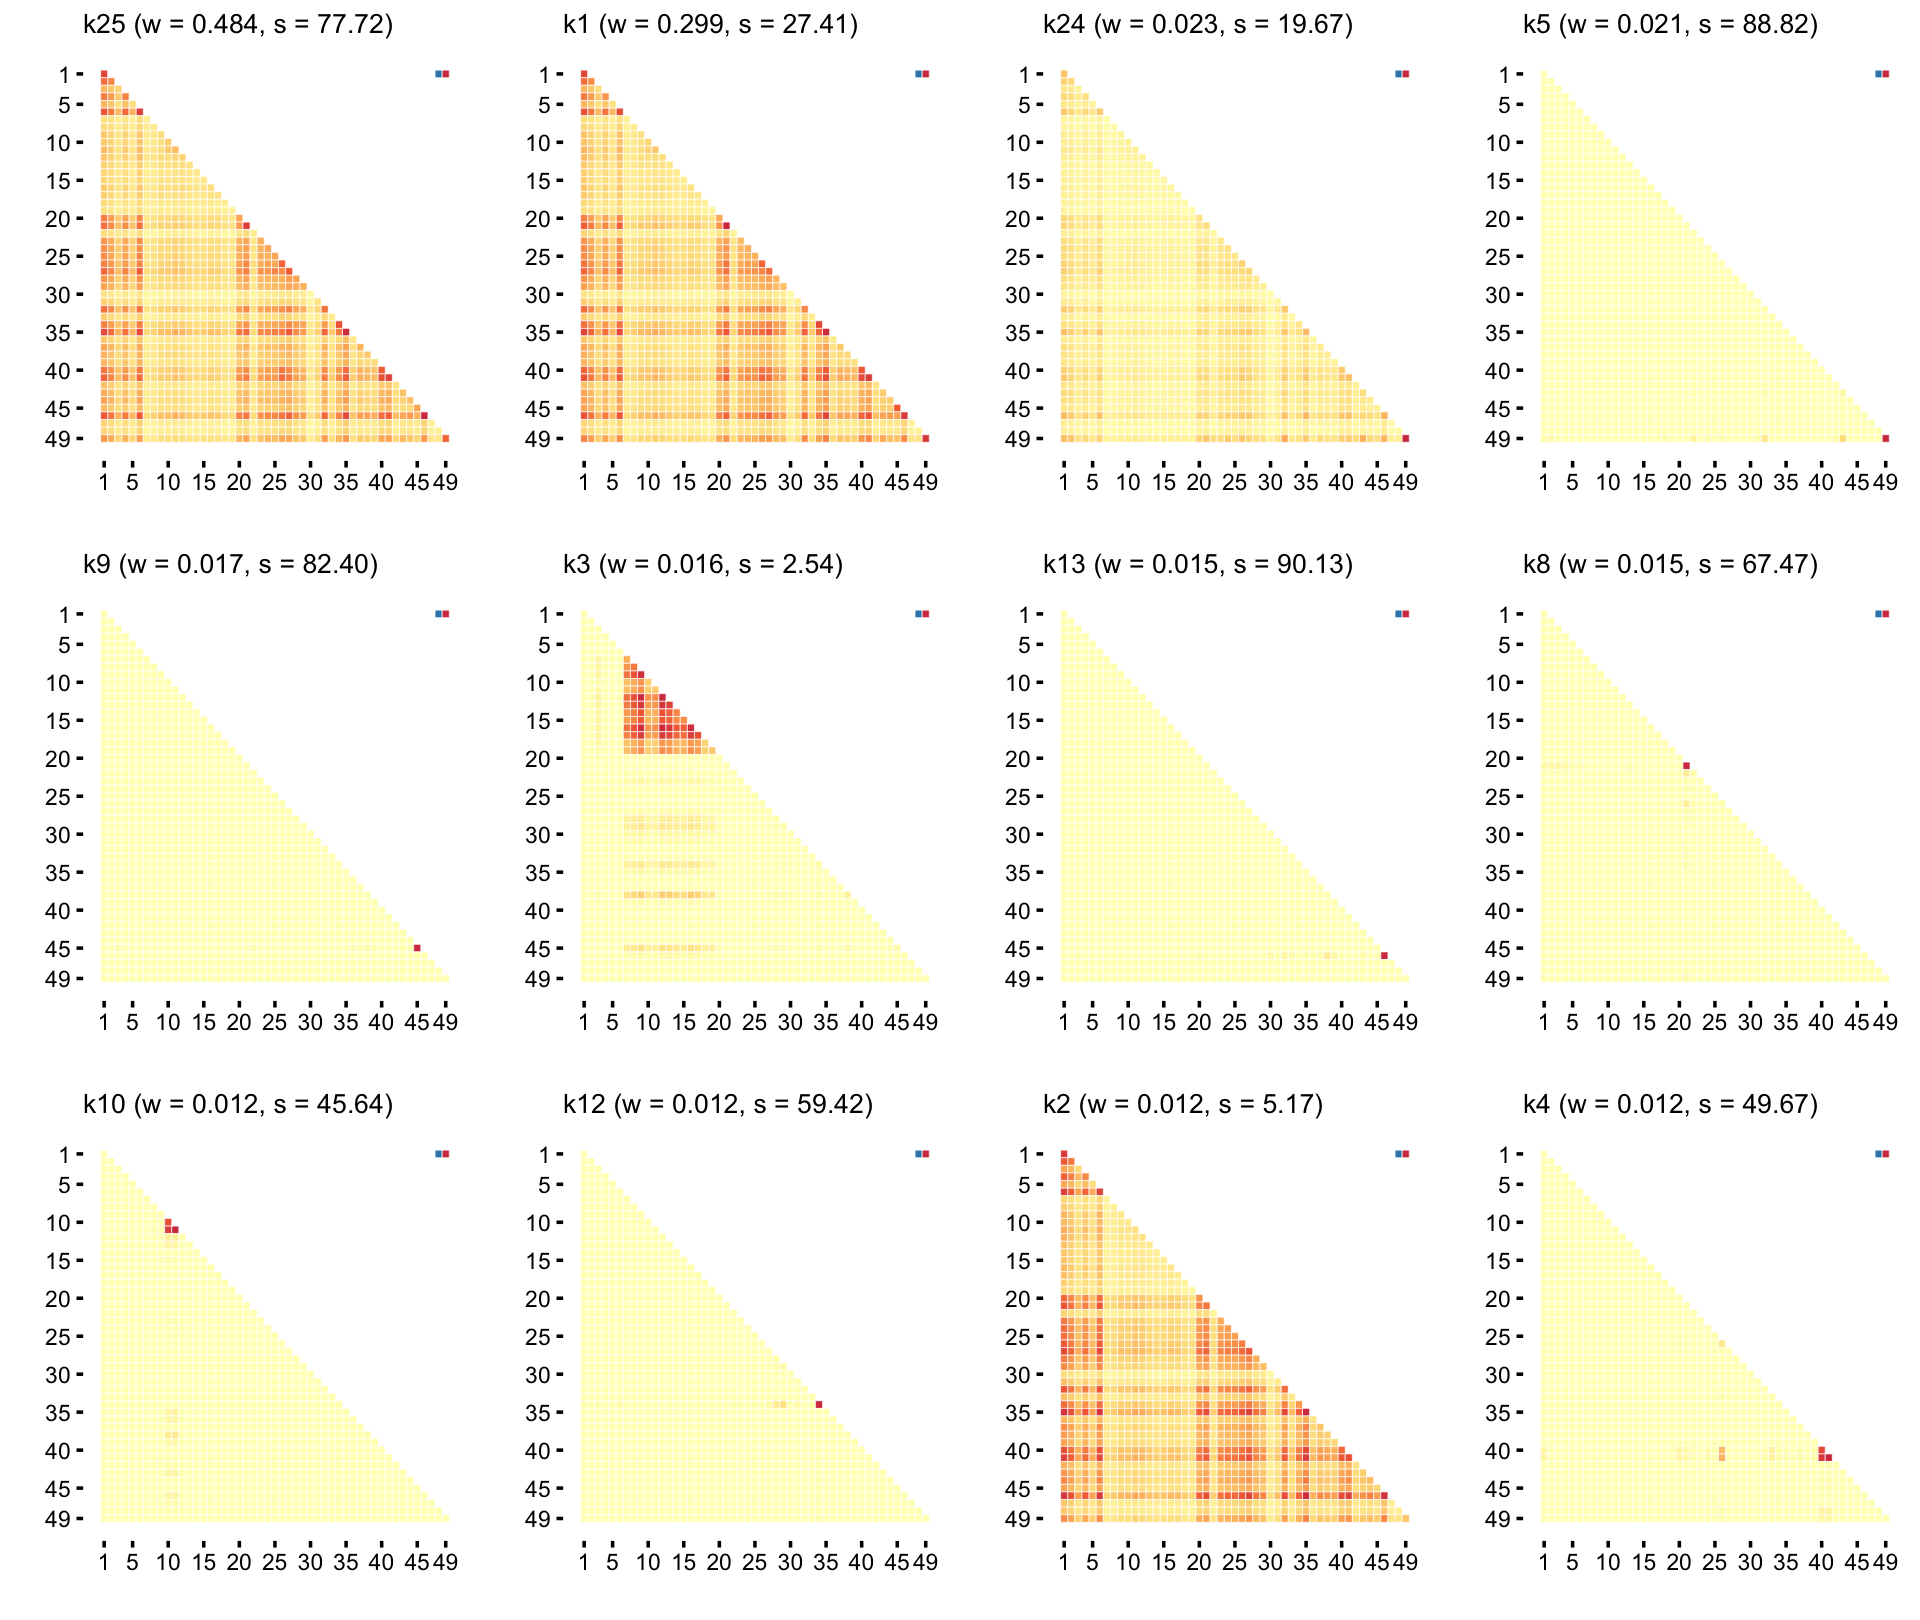
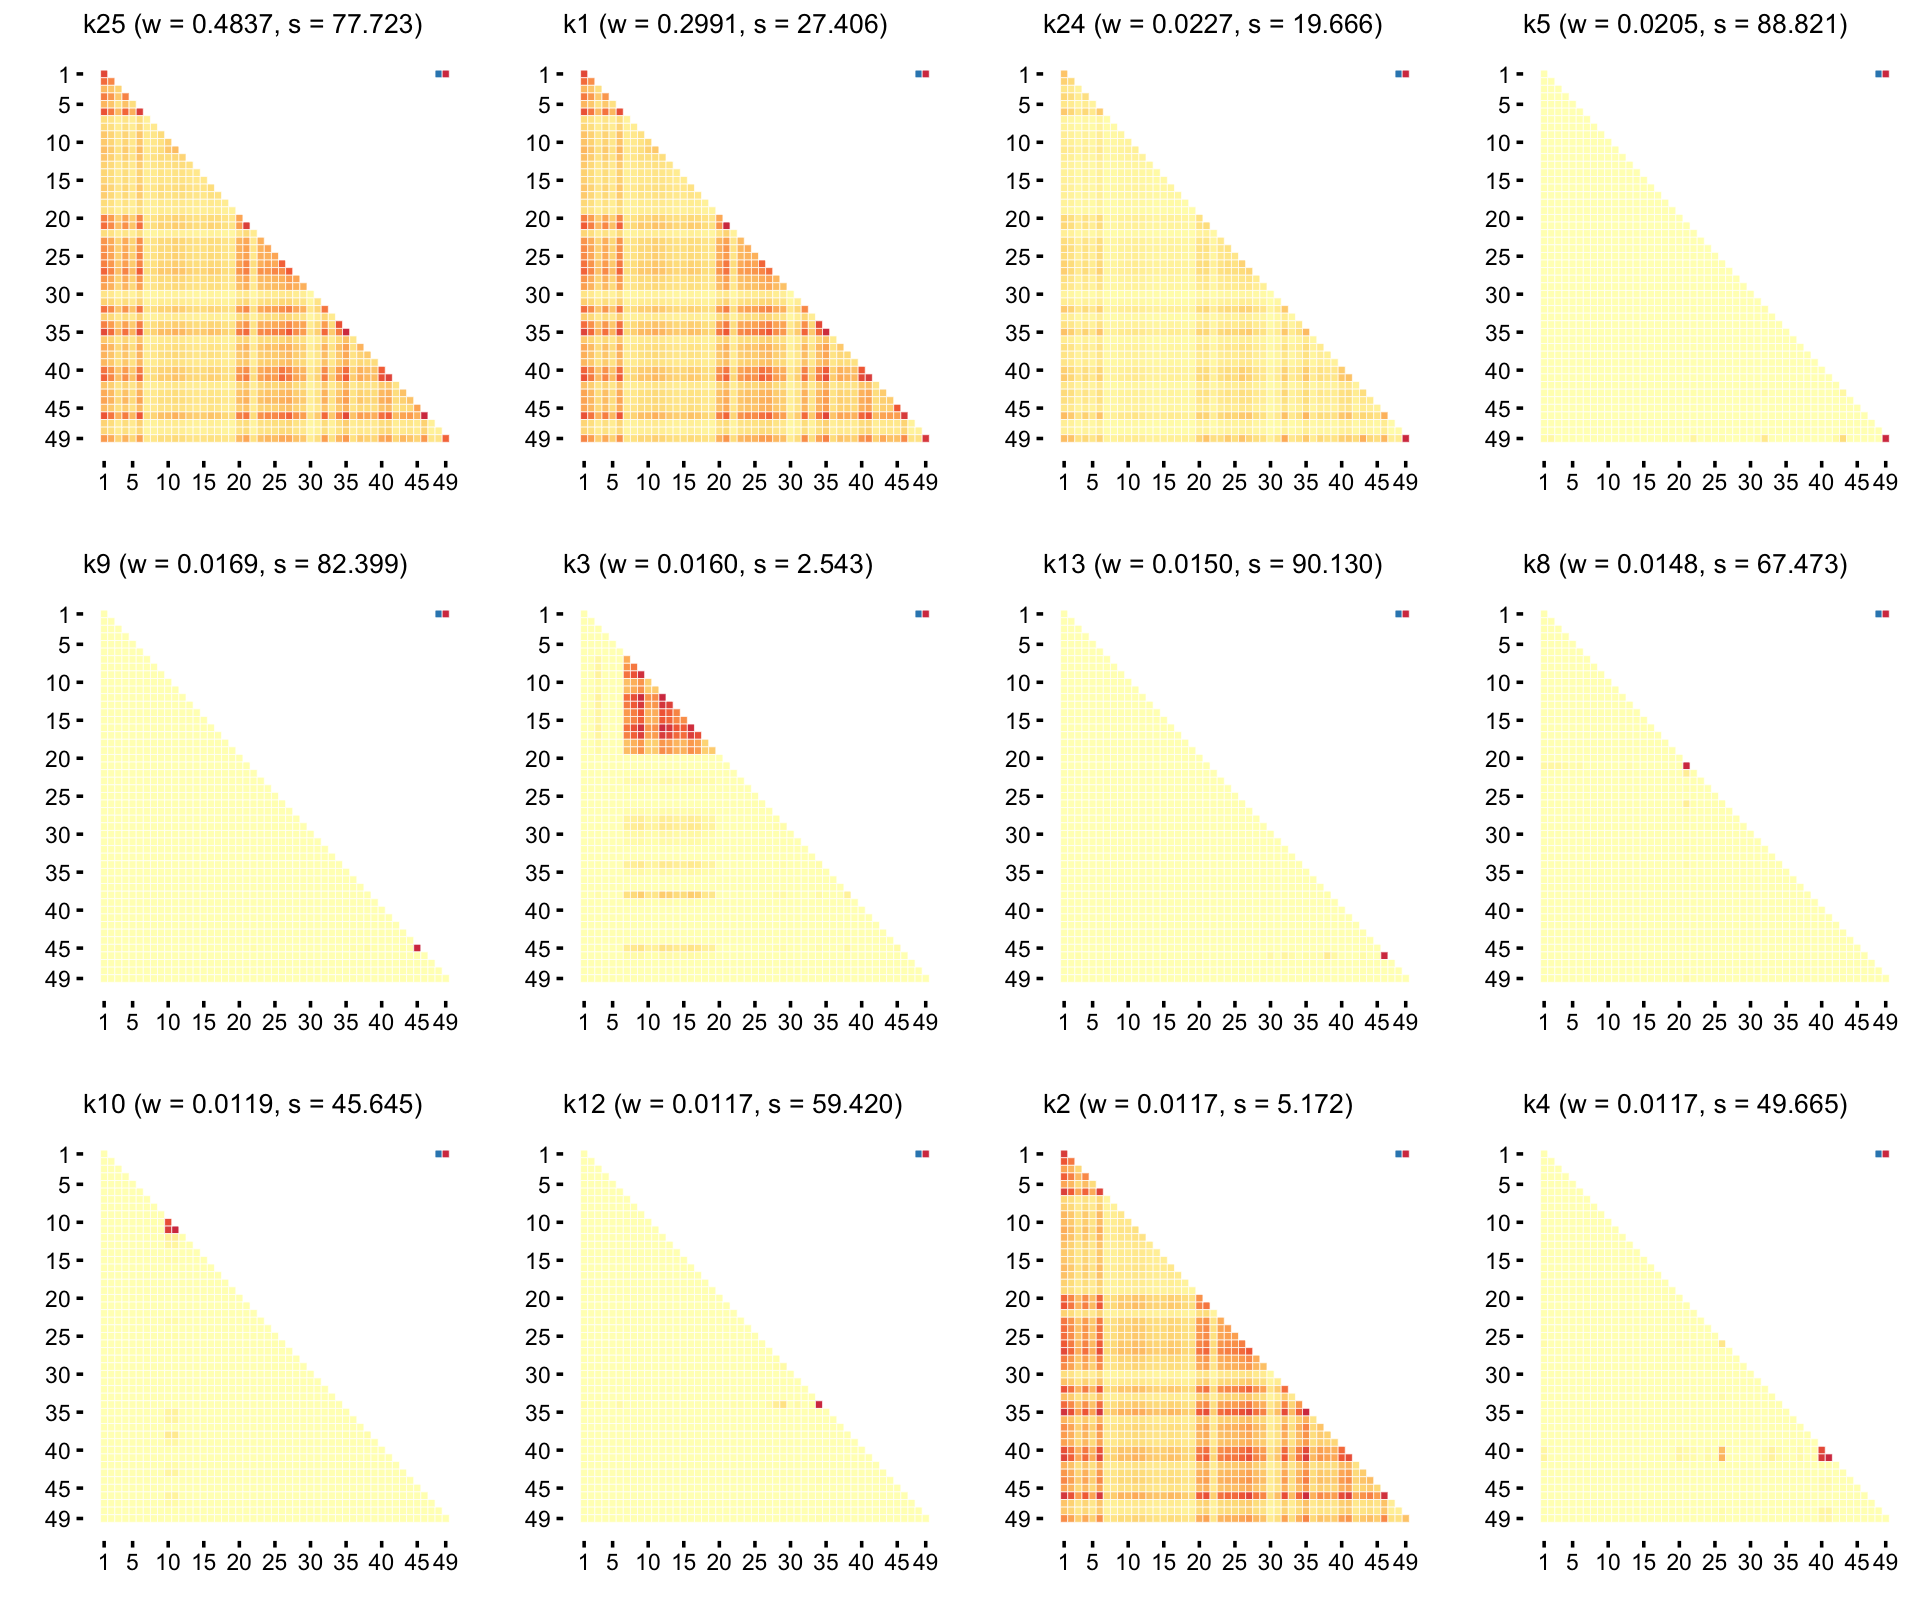
Added ggsave calls to the gtex_main analysis.

diff --git a/docs/gtex_main.html b/docs/gtex_main.html
@@ -437,15 +437,15 @@ project makes it easier to run your code on other machines.</p>
 <div class="panel panel-default">
 <div class="panel-heading">
 <p class="panel-title">
-<a data-toggle="collapse" data-parent="#workflowr-checks" href="#strongRepositoryversionstrongahrefhttpsgithubcomyunqiyang0215udrpapertree167721d610ab3dab0382f313ca6ce602e4e58c38targetblank167721da">
+<a data-toggle="collapse" data-parent="#workflowr-checks" href="#strongRepositoryversionstrongahrefhttpsgithubcomyunqiyang0215udrpapertree971a61bced0e8de724edd12da6a01b5c62307abatargetblank971a61ba">
 <span class="glyphicon glyphicon-ok text-success"
 aria-hidden="true"></span> <strong>Repository version:</strong>
-<a href="https://github.com/yunqiyang0215/udr-paper/tree/167721d610ab3dab0382f313ca6ce602e4e58c38" target="_blank">167721d</a>
+<a href="https://github.com/yunqiyang0215/udr-paper/tree/971a61bced0e8de724edd12da6a01b5c62307aba" target="_blank">971a61b</a>
 </a>
 </p>
 </div>
 <div
[2 lines of base64/hex data omitted]
 class="panel-collapse collapse">
 <div class="panel-body">
 <p>
@@ -455,7 +455,7 @@ reproducibility.
 </p>
 <p>
 The results in this page were generated with repository version
-<a href="https://github.com/yunqiyang0215/udr-paper/tree/167721d610ab3dab0382f313ca6ce602e4e58c38" target="_blank">167721d</a>.
+<a href="https://github.com/yunqiyang0215/udr-paper/tree/971a61bced0e8de724edd12da6a01b5c62307aba" target="_blank">971a61b</a>.
 See the <em>Past versions</em> tab to see a history of the changes made
 to the R Markdown and HTML files.
 </p>
@@ -469,7 +469,16 @@ depends on. Below is the status of the Git repository when the results
 were generated:
 </p>
 <pre><code>
-working directory clean
+Ignored files:
+    Ignored:    .DS_Store
+
+Untracked files:
+    Untracked:  gtex_cv.pdf
+    Untracked:  gtex_sharing_pattern_legend.pdf
+    Untracked:  gtex_sharing_patterns_ed.pdf
+    Untracked:  gtex_sharing_patterns_ted_iw.pdf
+    Untracked:  gtex_weights.pdf
+
 </code></pre>
 <p>
 Note that any generated files, e.g. HTML, png, CSS, etc., are not
@@ -514,6 +523,40 @@ Message
 </tr>
 </thead>
 <tbody>
+<tr>
+<td>
+Rmd
+</td>
+<td>
+<a href="https://github.com/yunqiyang0215/udr-paper/blob/971a61bced0e8de724edd12da6a01b5c62307aba/analysis/gtex_main.Rmd" target="_blank">971a61b</a>
+</td>
+<td>
+Peter Carbonetto
+</td>
+<td>
+2025-08-21
+</td>
+<td>
+wflow_publish("analysis/gtex_main.Rmd", view = F, verbose = T)
+</td>
+</tr>
+<tr>
+<td>
+html
+</td>
+<td>
+<a href="https://rawcdn.githack.com/yunqiyang0215/udr-paper/e6df56452bf0205dca12e6e1bdcba240d502708f/docs/gtex_main.html" target="_blank">e6df564</a>
+</td>
+<td>
+Peter Carbonetto
+</td>
+<td>
+2025-08-21
+</td>
+<td>
+Added the final estimates of the effect-sharing patterns to the
+</td>
+</tr>
 <tr>
 <td>
 Rmd
@@ -853,6 +896,43 @@ p2 &lt;- ggplot(pdat,aes(x = ted_iw)) +
   theme_cowplot(font_size = 10)
 plot_grid(p1,p2,nrow = 1,ncol = 2)</code></pre>
 <p><img src="figure/gtex_main.Rmd/examine-results-all-data-2-1.png" width="480" style="display: block; margin: auto;" /></p>
+<p>
+<button type="button" class="btn btn-default btn-xs btn-workflowr btn-workflowr-fig" data-toggle="collapse" data-target="#fig-examine-results-all-data-2-1">
+Past versions of examine-results-all-data-2-1.png
+</button>
+</p>
+<div id="fig-examine-results-all-data-2-1" class="collapse">
+<div class="table-responsive">
+<table class="table table-condensed table-hover">
+<thead>
+<tr>
+<th>
+Version
+</th>
+<th>
+Author
+</th>
+<th>
+Date
+</th>
+</tr>
+</thead>
+<tbody>
+<tr>
+<td>
+<a href="https://github.com/yunqiyang0215/udr-paper/blob/e6df56452bf0205dca12e6e1bdcba240d502708f/docs/figure/gtex_main.Rmd/examine-results-all-data-2-1.png" target="_blank">e6df564</a>
+</td>
+<td>
+Peter Carbonetto
+</td>
+<td>
+2025-08-21
+</td>
+</tr>
+</tbody>
+</table>
+</div>
+</div>
 <p>Now let’s take a look at the top effect-sharing patterns from the two
 analyses.</p>
 <pre class="r"><code>colors &lt;- c(&quot;#3288bd&quot;,&quot;#66c2a5&quot;,&quot;#abdda4&quot;,&quot;#e6f598&quot;,&quot;#ffffbf&quot;,
@@ -861,7 +941,7 @@ effect_plot &lt;- function (U, w, k) {
   s &lt;- max(diag(U))
   U &lt;- U/s
   n &lt;- nrow(U)
-  plot_title &lt;- sprintf(&quot;k%d (w = %0.3f, s = %0.2f)&quot;,k,w,s)
+  plot_title &lt;- sprintf(&quot;k%d (w = %0.4f, s = %0.3f)&quot;,k,w,s)
   pdat &lt;- cbind(expand.grid(row = 1:n,col = 1:n),
                 data.frame(value = as.vector(U)))
   pdat &lt;- subset(pdat,row &gt;= col)
@@ -893,6 +973,43 @@ plot_grid(plots[[1]],plots[[2]],plots[[3]],plots[[4]],
           plots[[9]],plots[[10]],plots[[11]],plots[[12]],
           nrow = 3,ncol = 4)</code></pre>
 <p><img src="figure/gtex_main.Rmd/ed-top-effect-sharing-patterns-1.png" width="960" style="display: block; margin: auto;" /></p>
+<p>
+<button type="button" class="btn btn-default btn-xs btn-workflowr btn-workflowr-fig" data-toggle="collapse" data-target="#fig-ed-top-effect-sharing-patterns-1">
+Past versions of ed-top-effect-sharing-patterns-1.png
+</button>
+</p>
+<div id="fig-ed-top-effect-sharing-patterns-1" class="collapse">
+<div class="table-responsive">
+<table class="table table-condensed table-hover">
+<thead>
+<tr>
+<th>
+Version
+</th>
+<th>
+Author
+</th>
+<th>
+Date
+</th>
+</tr>
+</thead>
+<tbody>
+<tr>
+<td>
+<a href="https://github.com/yunqiyang0215/udr-paper/blob/e6df56452bf0205dca12e6e1bdcba240d502708f/docs/figure/gtex_main.Rmd/ed-top-effect-sharing-patterns-1.png" target="_blank">e6df564</a>
+</td>
+<td>
+Peter Carbonetto
+</td>
+<td>
+2025-08-21
+</td>
+</tr>
+</tbody>
+</table>
+</div>
+</div>
 <p>These are the top 12 effect-sharing patterns from running the TED
 updates with the IW penalty on the covariance matrices:</p>
 <pre class="r"><code>w &lt;- fit_ted_iw$w
@@ -909,6 +1026,43 @@ plot_grid(plots[[1]],plots[[2]],plots[[3]],plots[[4]],
           plots[[9]],plots[[10]],plots[[11]],plots[[12]],
           nrow = 3,ncol = 4)</code></pre>
 <p><img src="figure/gtex_main.Rmd/ted-iw-top-effect-sharing-patterns-1.png" width="960" style="display: block; margin: auto;" /></p>
+<p>
+<button type="button" class="btn btn-default btn-xs btn-workflowr btn-workflowr-fig" data-toggle="collapse" data-target="#fig-ted-iw-top-effect-sharing-patterns-1">
+Past versions of ted-iw-top-effect-sharing-patterns-1.png
+</button>
+</p>
+<div id="fig-ted-iw-top-effect-sharing-patterns-1" class="collapse">
+<div class="table-responsive">
+<table class="table table-condensed table-hover">
+<thead>
+<tr>
+<th>
+Version
+</th>
+<th>
+Author
+</th>
+<th>
+Date
+</th>
+</tr>
+</thead>
+<tbody>
+<tr>
+<td>
+<a href="https://github.com/yunqiyang0215/udr-paper/blob/e6df56452bf0205dca12e6e1bdcba240d502708f/docs/figure/gtex_main.Rmd/ted-iw-top-effect-sharing-patterns-1.png" target="_blank">e6df564</a>
+</td>
+<td>
+Peter Carbonetto
+</td>
+<td>
+2025-08-21
+</td>
+</tr>
+</tbody>
+</table>
+</div>
+</div>
 <p>These are the 49 tissues:</p>
 <pre class="r"><code>colnames(dat$strong.z)
 #  [1] &quot;Adipose_Subcutaneous&quot;                 
@@ -964,11 +1118,12 @@ plot_grid(plots[[1]],plots[[2]],plots[[3]],plots[[4]],
 <pre class="r"><code>pdat &lt;- data.frame(x = seq(1,3,length.out = 1000),
                    y = seq(1,3,length.out = 1000),
                    value = seq(-1,1,length.out = 1000))
-ggplot(pdat,aes(x = x,y = y,color = value)) +
+p &lt;- ggplot(pdat,aes(x = x,y = y,color = value)) +
   geom_point() +
   scale_color_gradientn(colors = colors,values = seq(0,1,length.out = 9)) +
-  theme_cowplot(font_size = 12)</code></pre>
-<p><img src="figure/gtex_main.Rmd/effect-sharing-plot,legend-1.png" width="330" style="display: block; margin: auto;" /></p>
+  theme_cowplot(font_size = 12)
+print(p)</code></pre>
+<p><img src="figure/gtex_main.Rmd/effect-sharing-plot-legend-1.png" width="330" style="display: block; margin: auto;" /></p>
 <br>
 <p>
 <button type="button" class="btn btn-default btn-workflowr btn-workflowr-sessioninfo" data-toggle="collapse" data-target="#workflowr-sessioninfo" style="display: block;">
@@ -1002,16 +1157,17 @@ Session information
 #  [1] gtable_0.3.6       jsonlite_2.0.0     dplyr_1.1.4        compiler_4.3.3    
 #  [5] promises_1.3.3     tidyselect_1.2.1   Rcpp_1.1.0         stringr_1.5.1     
 #  [9] git2r_0.33.0       dichromat_2.0-0.1  callr_3.7.5        later_1.4.2       
-# [13] jquerylib_0.1.4    scales_1.4.0       yaml_2.3.10        fastmap_1.2.0     
-# [17] R6_2.6.1           labeling_0.4.3     generics_0.1.4     knitr_1.50        
-# [21] tibble_3.3.0       rprojroot_2.0.4    RColorBrewer_1.1-3 bslib_0.9.0       
-# [25] pillar_1.11.0      rlang_1.1.6        cachem_1.1.0       stringi_1.8.7     
-# [29] httpuv_1.6.14      xfun_0.52          getPass_0.2-4      fs_1.6.6          
-# [33] sass_0.4.10        cli_3.6.5          withr_3.0.2        magrittr_2.0.3    
-# [37] ps_1.7.6           digest_0.6.37      grid_4.3.3         processx_3.8.3    
-# [41] rstudioapi_0.15.0  lifecycle_1.0.4    vctrs_0.6.5        evaluate_1.0.4    
-# [45] glue_1.8.0         farver_2.1.2       whisker_0.4.1      rmarkdown_2.29    
-# [49] httr_1.4.7         tools_4.3.3        pkgconfig_2.0.3    htmltools_0.5.8.1</code></pre>
+# [13] jquerylib_0.1.4    textshaping_0.3.7  systemfonts_1.0.6  scales_1.4.0      
+# [17] yaml_2.3.10        fastmap_1.2.0      R6_2.6.1           labeling_0.4.3    
+# [21] generics_0.1.4     knitr_1.50         tibble_3.3.0       rprojroot_2.0.4   
+# [25] RColorBrewer_1.1-3 bslib_0.9.0        pillar_1.11.0      rlang_1.1.6       
+# [29] cachem_1.1.0       stringi_1.8.7      httpuv_1.6.14      xfun_0.52         
+# [33] getPass_0.2-4      fs_1.6.6           sass_0.4.10        cli_3.6.5         
+# [37] withr_3.0.2        magrittr_2.0.3     ps_1.7.6           digest_0.6.37     
+# [41] grid_4.3.3         processx_3.8.3     rstudioapi_0.15.0  lifecycle_1.0.4   
+# [45] vctrs_0.6.5        evaluate_1.0.4     glue_1.8.0         farver_2.1.2      
+# [49] whisker_0.4.1      ragg_1.2.7         rmarkdown_2.29     httr_1.4.7        
+# [53] tools_4.3.3        pkgconfig_2.0.3    htmltools_0.5.8.1</code></pre>
 </div>
 
 
